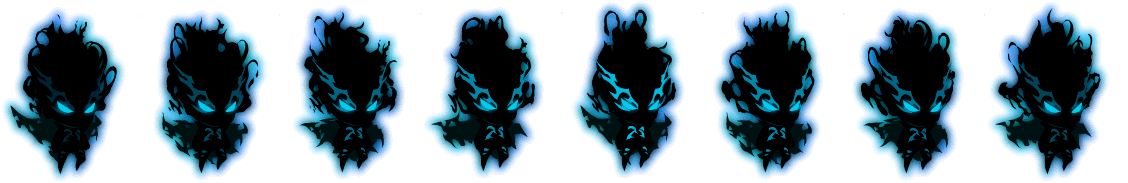
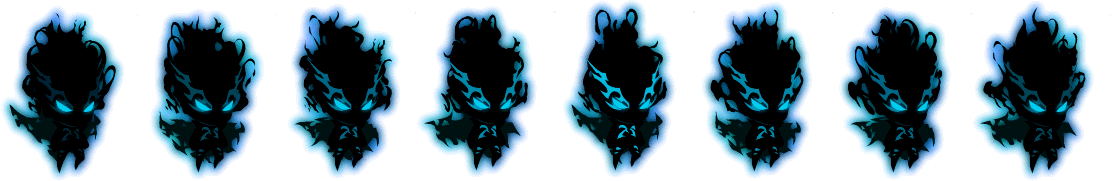
made some adjustments to the innerrage animation

diff --git a/public/js/game.js b/public/js/game.js
@@ -610,7 +610,7 @@ var game = new Phaser.Game({
   physics: {
     default: 'arcade',
     arcade: {
-      debug: true,
+      debug: false,
       gravity: { y: 0 }
     }
   },
